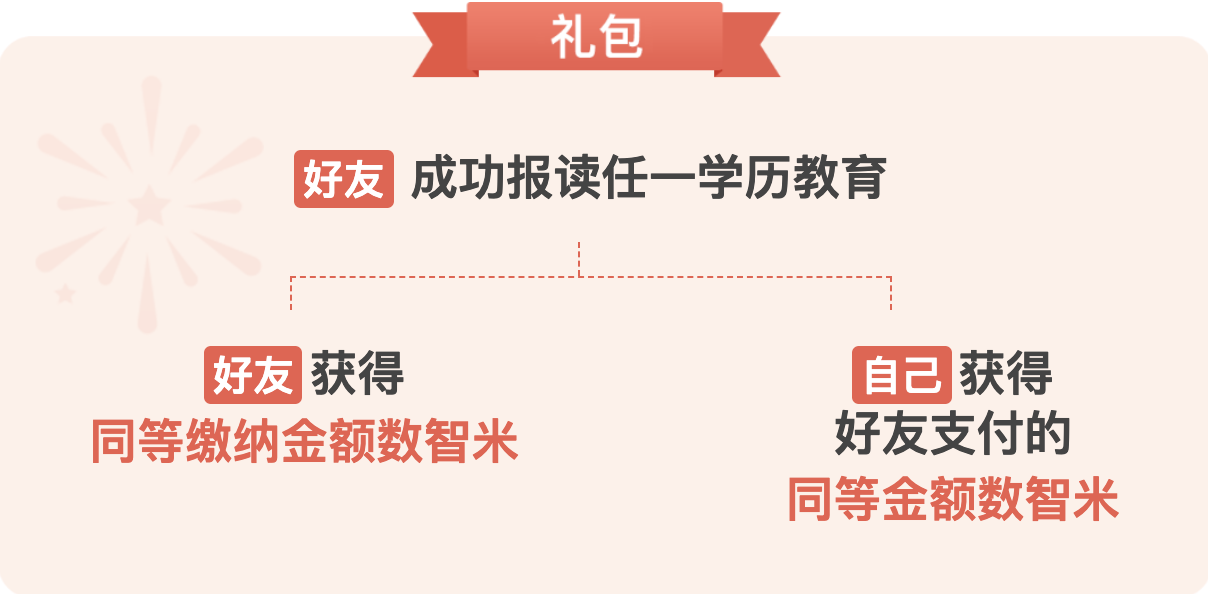
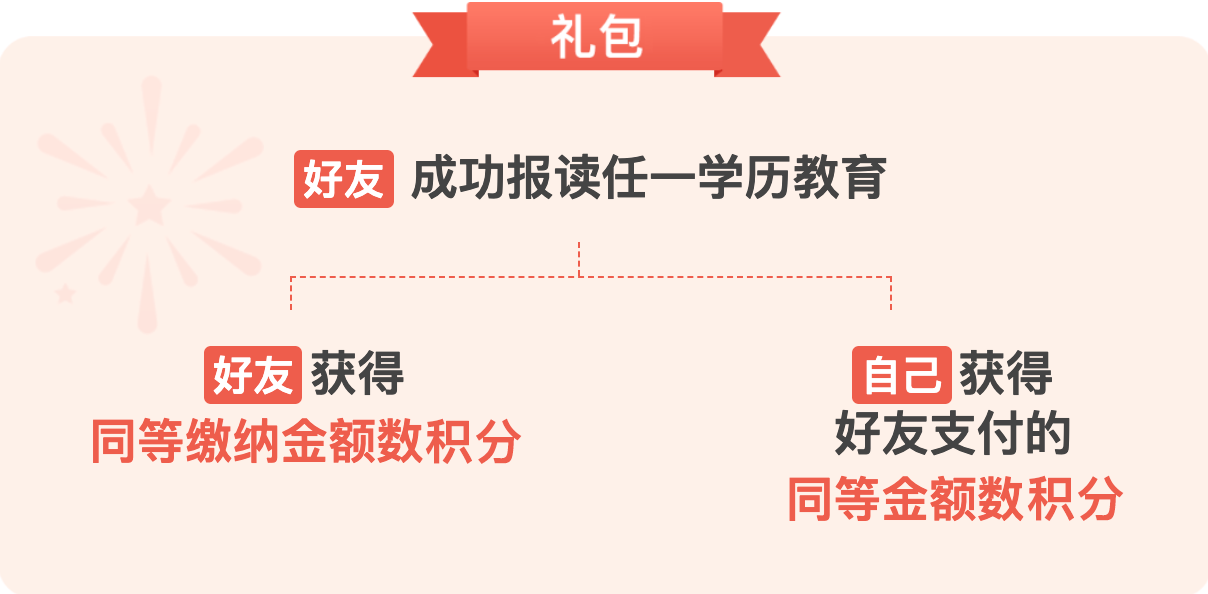
更改一些图片，修改栏目bug

Changed region(s): [[0.827, 0.7879, 0.9495, 0.8788], [0.3369, 0.697, 0.4288, 0.7879]]

diff --git a/mobel/html/online_education.html b/mobel/html/online_education.html
@@ -219,7 +219,7 @@
       <div class="switch_content">
         <div class="dream_build_box">
           <!-- 原先介绍头部图片及文字介绍 -->
-          <div class="open_education_referral">
+          <div class="open_education_referral online_education_referral">
             <div class="title_img"><img src="{MODULE_URL}template/mobile/default/images/index/open_education/open_ referral.png" alt=""></div>
             <p class="content_text">
                 远程教育是学生与教师、学生与教育组织之间主要采取多种媒体方式进行系统教学和通信联系的教育形式，是将课程传送给校园外的一处或多处学生的教育。
@@ -257,9 +257,9 @@
     <div class="open_education_switch">
       <div class="open_switch_cbox"></div>
       <div class="open_switch_items online_switch_voice">
-        <div class="open_switch_item open_switch_item_on">留言区
+        <div class="open_switch_item open_switch_item_on online_switch_item">留言区
         </div>
-        <div class="open_switch_item">常见问题</div>
+        <div class="open_switch_item online_switch_item">常见问题</div>
         <div class="open_switch_line"></div>
       </div>
     </div>
@@ -299,21 +299,21 @@
 </div>
 
 <script>
-$(window).scroll(
+  $(window).scroll(
     function(){
       let windowHt = $(this).scrollTop()
       let headerHt = $('#header').height()
       // 开放教育页导航设置
       let contentCenterHt = $('.main_content_online').height()
       let mainContentBox3Wd = $('.main_content_online .main_content').height()
-      let switchItem3 = $('.main_content_online .switch_item') // 通用第一个导航到顶部设置
+      let switchItem4 = $('.main_content_online .switch_item') // 通用第一个导航到顶部设置
       let newBanner = $('.online_banner')
       let openItem = $('.online_switch_voice')
       let bannerOpenHt = $('.online_banner').height()
       if(windowHt >  headerHt + bannerOpenHt){ 
-        switchItem3.addClass('fixed')
+        switchItem4.addClass('fixed')
       } else if(windowHt <  headerHt + bannerOpenHt) {
-        switchItem3.removeClass('fixed')
+        switchItem4.removeClass('fixed')
       }
 
       // 留言框导航的显示隐藏
@@ -324,11 +324,32 @@ $(window).scroll(
       }
     }
 )
-// 设置导航下划线初始的宽度，为导航块的60%
-let openSwitchItem = $('.open_switch_item')
-let openSwitchItemLine = $('.open_switch_line')
+
+  // // 学院介绍内容变多变少按钮
+  let onlineEducationText = $('.online_eduction .content_text')
+  // 展开
+  $('.online_more .down').click(
+    function() {
+      onlineEducationText.css('height','100%')
+      $(this).addClass('hide')
+      $('.online_more .up').removeClass('hide')
+    }
+  )
+    // 收起
+  $('.online_more .up').click(
+    function() {
+      onlineEducationText.css('height','3rem')
+      $(this).addClass('hide')
+      $('.online_more .down').removeClass('hide')
+      $('html, body').animate({scrollTop: 0},450)
+    }
+  )
+
+  // 设置导航下划线初始的宽度，为导航块的60%
+let onlineSwitchItem = $('.online_switch_item')
+let onlineSwitchItemLine = $('.online_switch_item') 
 // 点击切换
-openSwitchItem.click(function(){
+onlineSwitchItem.click(function(){
   let $this = $(this)
   let switchContent = $this.parent().parent().parent().find('.switch_content') // 找到当前点击对象所对应的内容区域
   $this.addClass('open_switch_item_on').siblings().removeClass('open_switch_item_on') // 选中样式的添加和移除
@@ -338,19 +359,4 @@ openSwitchItem.click(function(){
   switchContent.eq(index).addClass('block').siblings().removeClass('block')  // 内容切换完成
 })
 
-  // 学院介绍内容变多变少按钮
-  let openEducationText = $('.online_eduction .content_text')
-// 展开
-$('.online_more .down').click(function(){
-  openEducationText.css('height','100%')
-  $(this).addClass('hide')
-  $('.online_more .up').removeClass('hide')
-})
-// 收起
-$('.online_more .up').click(function(){
-  openEducationText.css('height','3rem')
-  $(this).addClass('hide')
-  $('.online_more .down').removeClass('hide')
-  $('html, body, .section').animate({scrollTop: 0},450)
-})
 </script>

diff --git a/mobel/html/open_education.html b/mobel/html/open_education.html
@@ -256,7 +256,7 @@
   <div class="open_education_voice">
     <div class="open_education_switch">
       <div class="open_switch_cbox"></div>
-      <div class="open_switch_items">
+      <div class="open_switch_items open_seconde_switch">
         <div class="open_switch_item open_switch_item_on">留言区
         </div>
         <div class="open_switch_item">常见问题</div>
@@ -308,7 +308,7 @@ $(window).scroll(
       let mainContentBox3Wd = $('.main_content_open .main_content').height()
       let switchItem3 = $('.main_content_open .switch_item') // 通用第一个导航到顶部设置
       let newBanner = $('.new_banner')
-      let openItem = $('.open_switch_items')
+      let openItem = $('.open_seconde_switch')
       let bannerOpenHt = $('.new_banner').height()
       if(windowHt >  headerHt + bannerOpenHt){ 
         switchItem3.addClass('fixed')

diff --git a/mobel/style/cssv2/index.css b/mobel/style/cssv2/index.css
@@ -1830,6 +1830,7 @@ ope .btn_home.btn_home_on {
 	display: inline-block;
 	font-size: 14px;
 	line-height: 1;
+	padding-left: 5px;
 }
 
 .apply_gift_box li img {
